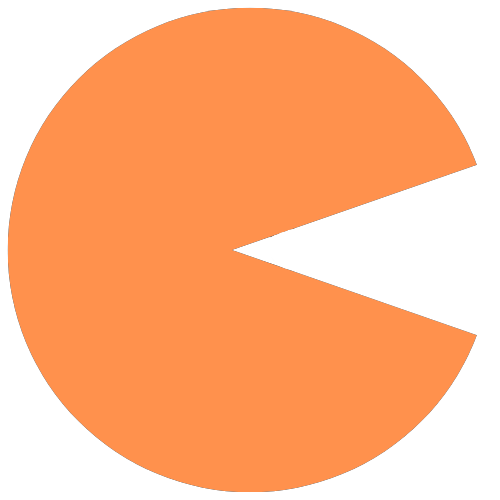
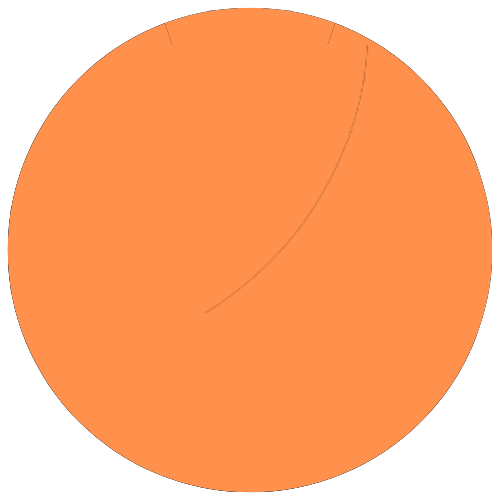
di chuyển pacman

Changed region(s): [[0.45, 0.33, 0.99, 0.69]]

diff --git a/src/pacman.py b/src/pacman.py
@@ -4,8 +4,8 @@ import copy
 
 class Player:
     def __init__(self, x_coord, y_coord, target, speed, img, direct, dead, powerup, board):
-        self.x_pos = x_coord  # Vị trí X của Pac-Man
-        self.y_pos = y_coord  # Vị trí Y của Pac-Man
+        self.x_pos = x_coord
+        self.y_pos = y_coord
         self.center_x = self.x_pos + 13
         self.center_y = self.y_pos + 13
         self.target = target #position [x, y]
@@ -18,11 +18,11 @@ class Player:
         self.lives = 3  # Số mạng của Pac-Man
         self.score = 0  # Điểm số
         self.frame_count = 0 #thay đổi hình
-        #self.turns = self.check_collisions()  # Kiểm tra hướng đi hợp lệ
+        self.turns = [False, False, False, False] #R, L, U, D
 
     def draw(self):
         from src.BoardGame import screen
-        current_image = self.img[(self.frame_count // 10) % len(self.img)]
+        current_image = self.img[(self.frame_count // 20) % len(self.img)]
 
         if self.direction == "right":  # Đi sang phải
             screen.blit(current_image, (self.x_pos, self.y_pos))
@@ -37,5 +37,53 @@ class Player:
             screen.blit(rotated_image, (self.x_pos, self.y_pos))
         
         self.frame_count += 1  # Tăng frame để chuyển đổi hình ảnh
-        if self.frame_count >= 30:  # Reset lại sau mỗi 30 frame (để lặp lại hiệu ứng)
+        if self.frame_count >= 100:  # Reset lại sau mỗi 30 frame (để lặp lại hiệu ứng)
             self.frame_count = 0
+
+    '''def reset_position(self, x_start, y_start):
+        self.x_pos = x_start
+        self.y_pos = y_start
+        self.center_x = self.x_pos + 13  # Cập nhật lại vị trí trung tâm
+        self.center_y = self.y_pos + 13'''
+
+    def move(self, direction):
+        #update sau khi dùng phím
+        new_x, new_y = self.x_pos, self.y_pos
+        if direction == "right":
+            new_x = self.x_pos + self.speed
+            new_y = self.y_pos
+        elif direction == "left":
+            new_x = self.x_pos - self.speed
+            new_y = self.y_pos
+        elif direction == "up":
+            new_x = self.x_pos
+            new_y = self.y_pos - self.speed
+        elif direction == "down":
+            new_x = self.x_pos
+            new_y = self.y_pos + self.speed
+        else:
+            return
+
+        # Kiểm tra va chạm với biên giới màn hình
+        if new_x < 0 or new_x >= WIDTH - 26: 
+            return 
+        if new_y < 0 or new_y >= HEIGHT - 26:  
+            return
+                
+        #check collision, đúng r
+        if(self.check_collision(new_x, new_y)):
+            self.x_pos = new_x
+            self.y_pos = new_y
+            self.center_x = self.x_pos + GRID_SIZE // 2
+            self.center_y = self.y_pos + GRID_SIZE // 2
+
+            self.direction = direction
+
+    def check_collision(self, x, y):
+        #check xem vị trí (x, y) có phải là wall k0, chỗ này đúng r
+        grid_x = (x + GRID_SIZE // 2) // GRID_SIZE
+        grid_y = (y + GRID_SIZE // 2) // GRID_SIZE
+        if self.map[grid_y][grid_x] in [1,4,0]:
+            return False
+        return True
+    

diff --git a/src/menu_ScreenGame.py b/src/menu_ScreenGame.py
@@ -15,7 +15,8 @@ background_image2 = pygame.image.load(MENU_LOGO_2)
 #phóng to thu nhỏ
 background_image1 = pygame.transform.scale(background_image1, (WIDTH//2.2, HEIGHT//2.2))
 background_image2 = pygame.transform.scale(background_image2, (WIDTH//1.8, HEIGHT//3))
-player = Player(x_coord=200, y_coord=200, target=[0, 0], speed=2, img=pacman_images, direct="right", dead=False, powerup=False, board=[])
+
+player = Player(x_coord=10+26, y_coord=10+26, target=[0, 0], speed=2, img=pacman_images, direct="right", dead=False, powerup=False, board=boards2)
 
 def draw_button(text, x, y, width, height, color, action=None, fontsize=int):
     pygame.draw.rect(screen, color, (x, y, width, height))
@@ -31,6 +32,18 @@ def draw_button(text, x, y, width, height, color, action=None, fontsize=int):
         if click[0] == 1 and action:
             action()
 
+#xử lí phím cho player ở level 6
+def handle_input():
+    # Xử lý di chuyển của Pac-Man khi nhấn các phím mũi tên
+    keys = pygame.key.get_pressed()  # Lấy trạng thái tất cả các phím
+    if keys[pygame.K_RIGHT]:
+        player.move("right")
+    elif keys[pygame.K_LEFT]:
+        player.move("left")
+    elif keys[pygame.K_UP]:
+        player.move("up")
+    elif keys[pygame.K_DOWN]:
+        player.move("down")
 
 def screen_game(level):
     screen.fill(COLORS["Black"])
@@ -125,6 +138,8 @@ def screen_game(level):
         elif(level == 6):
             draw_board2()
             player.draw()
+           # player.reset_position(10,120)
+            handle_input()
             font = pygame.font.SysFont("timesnewroman", 50, bold = True)
             level_text = font.render(f"Level {level}", True, COLORS["BACKGROUND_BLUE"])
             screen.blit(level_text, (1000, 50))

diff --git a/main.py b/main.py
@@ -1,5 +1,5 @@
 import sys
-sys.path.append("D:/Pacman/src")
+sys.path.append("D:/PACMAN/Pacman/src") #path này tùy theo đg dẫn folder src trong máy của mỗi ng
 from src.BoardGame import draw_board2, screen, draw_board1
 from src.specification import *
 from src.ghost import *
@@ -15,16 +15,16 @@ def main():
     ghost = Ghost(x_coord = 26 , y_coord = 26, target = [26 * 4, 26 * 5], speed=2, img=GHOST_BLUE, direct=0, dead=False, powerup=False, board=map)
     path = ghost.move_bfs()
     print(path)
-    # while True:
-    #     timer.tick(FPS)
-    #     screen.fill('black')
-    #     menu()
+    while True:
+        timer.tick(FPS)
+        screen.fill('black')
+        menu()
 
-    #     for event in pygame.event.get():
-    #         if event.type == pygame.QUIT:
-    #             running = False
+        for event in pygame.event.get():
+            if event.type == pygame.QUIT:
+                running = False
         
-    #     pygame.display.flip()
-    # pygame.quit()
+        pygame.display.flip()
+    pygame.quit()
 
 main()

diff --git a/src/specification.py b/src/specification.py
@@ -50,6 +50,7 @@ boards1 = [
     [1,1,1,1,1,1,1,1,1,1,1,1,1,1,1,1,1,1,1,1,1,1,1]
 ]
 
+#29x33
 boards2 = [
     [1,1,1,1,1,1,1,1,1,1,1,1,1,1,1,1,1,1,1,1,1,1,1,1,1,1,1,1,1,1,1,1,1],
     [1,2,2,2,2,2,2,1,2,2,2,1,2,1,2,2,2,3,2,2,2,2,2,1,2,2,2,2,2,2,2,2,1],
@@ -107,7 +108,8 @@ PACMAN_4 = pygame.transform.scale(pygame.image.load(r"img/4.png"), (CELL_SIZE, C
 pacman_images = [
     PACMAN_1,
     PACMAN_2,
-    PACMAN_3
+    PACMAN_3,
+    PACMAN_4
 ]
 
 GHOST_DEAD = pygame.transform.scale(pygame.image.load(r"img/dead.png"), (CELL_SIZE, CELL_SIZE))
